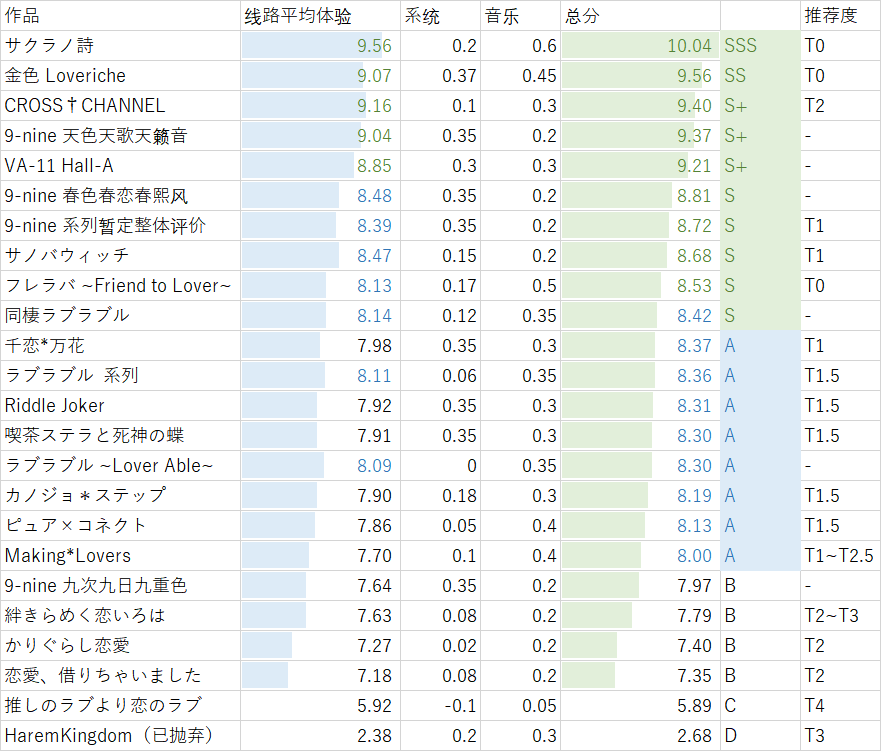
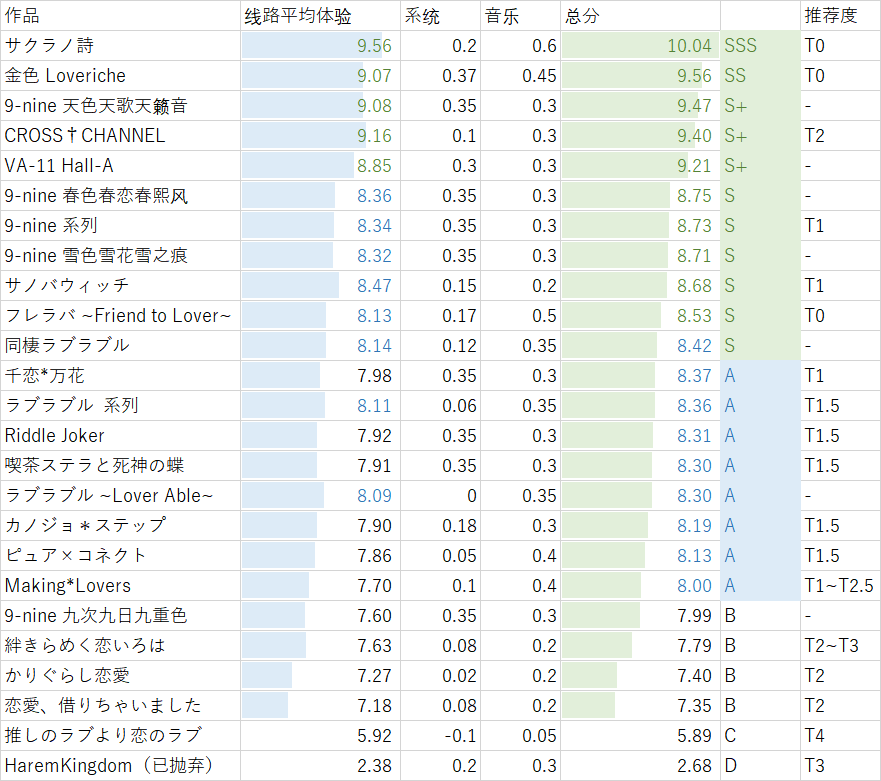
MoeImp 9nine-4

Changed region(s): [[0.0, 0.0, 1.0, 1.0], [0.2758, 0.6738, 0.3678, 0.8881], [0.9194, 0.0, 0.9807, 0.1838]]

diff --git a/impression/9nine.md b/impression/9nine.md
@@ -21,27 +21,27 @@ Palette 「9-nine」（2017-2020）
 
 | 9-nine | 线路分  |   作品分 | Rank |
 | :---------------: | ---: | :---------: | :--: |
-| 九次九日九重色 | 9.55 | 10.10/N7.97 |  B  |
-| 天色天歌天籁音 | 11.30 | 11.85/N9.37 |  S+  |
-| 春色春恋春熙风 | 10.60 | 11.15/N8.81 |  S  |
-| 雪色雪花雪之痕 | - | - |  -   |
-| 整体评分（暂定） | - | 11.03/N8.72 |  S  |
+| 九次九日九重色 | 9.50 | 10.15/N7.99 |  B  |
+| 天色天歌天籁音 | 11.35 | 12.00/N9.47 |  S+  |
+| 春色春恋春熙风 | 10.45 | 11.10/N8.75 |  S  |
+| 雪色雪花雪之痕 | 10.40 | 11.05/N8.71 |  S   |
+| 整体评分 | - | 11.08/N8.73 |  S  |
 
 ### 九次九日九重色
 
 （九條都）
 
-印象分 9.1→8.2/10 趣味 0.0/0.3 情感 0.3/0.5<br />
-人物刻画 0.3/0.5 剧情表现 0.1/0.5<br />
-人物（声音 + 作画）(0.3+0.4)/(0.3+0.4)<br />
-结尾埋了一个雷 -0.05<br />
-线路总计 9.55/12.5
+印象分 9.1→8.2/10 趣味 0.0/0.3 情感 0.3/0.5  
+人物刻画 0.3/0.5 剧情表现 0.1/0.5  
+人物（声音 + 作画）(0.25+0.4)/(0.3+0.4)  
+结尾埋了一个雷 -0.05  
+线路总计 9.5/12.5
 
-系统 存档方便 +0.05 场景动态 +0.1 <br />
-人物表情动态 +0.05 漫画场景 +0.05<br />
-整体「精致感」+0.1<br />
-音乐 +0.2<br />
-作品总计 10.10/N7.97 B
+系统 存档方便 +0.05 场景动态 +0.1   
+人物表情动态 +0.05 漫画场景 +0.05  
+整体「精致感」+0.1  
+音乐 +0.3  
+作品总计 10.15/N7.99 B
 
 系统方面，这可能是我用过的最好用的系统了，存档界面就在手边，基本功能也没有缺失，人物和场景甚至有些动态，比如一些表情的「冒汗」「kira」这样的效果。这个动态 CG 过于强大甚至使得我跳 hs 有了一种暴殄天物的罪恶感。
 
@@ -49,22 +49,22 @@ Palette 「9-nine」（2017-2020）
 
 不过在这个剧情和系统中，我还是蛮喜欢这个一周目强制 BE 的设定的。这个设定给了一种「我亲眼看到并且亲手阻止了这场悲剧发生」的感觉，并且莫名其妙地，我因为这个 BE 对喵都的好感增加了（可能是激发了保护欲吧）。二周目更是用实际对比告诉了玩家的行动的变化会带来什么样的不同，会怎样避免悲剧发生。
 
-虽然剧情比较拉跨，但是还好，这作在其他地方没有一点缩水。称得上豪华的声优阵容带来的强大的声音表演，精致的作画，在视听感受上是顶尖级别的水准，作为系列开头奠定的基础是非常优秀的。也正是声音 + 作画的 0.3+0.4 将本作提升至了接近 A+ 的水准。
+虽然剧情比较拉跨，但是还好，这作在其他地方没有一点缩水。称得上豪华的声优阵容带来的强大的声音表演，精致的作画，在视听感受上是顶尖级别的水准，作为系列开头奠定的基础是非常优秀的。也正是声音 + 作画的 0.3+0.4 将本作提升至了接近 A 的水准。
 
 ### [天色天歌天籁音](http://yoro.xyz/kawaiigirls/2020/03/12/9nine-sora.html)
 
 （新海天）
 
-印象分 9.6→9.2/10 趣味 0.1/0.3 情感 0.5/0.5<br />
-人物刻画 0.4/0.5 剧情表现 0.3/0.5<br />
-人物（声音 + 作画）(0.4+0.4)/(0.3+0.4)<br />
-线路总计 11.3/12.5
+印象分 9.6→9.2/10 趣味 0.25/0.3 情感 0.4/0.5  
+人物刻画 0.4/0.5 剧情表现 0.3/0.5  
+人物（声音 + 作画）(0.4+0.4)/(0.3+0.4)  
+线路总计 11.35/12.5
 
-系统 +0.35（同上）<br />
-音乐 +0.2<br />
-作品总计 11.85/N9.37 S+
+系统 +0.35（同上）  
+音乐 +0.3  
+作品总计 12.00/N9.47 S+
 
-单线作品就有这样的特点，线路好的话分数可以很高，因为没有其他线路拖后腿；线路烂的话分数可以很低，因为没有其他线路补救。<br />
+单线作品就有这样的特点，线路好的话分数可以很高，因为没有其他线路拖后腿；线路烂的话分数可以很低，因为没有其他线路补救。  
 放心，9-nine 系列最后还是要看一个总评分的。
 
 ~~好吧我承认就这样把 MoeImp-v2 第一个 SS 交了简直就是乱来，但是某种程度上这是能让我破例的存在。~~ 我又压分了！
@@ -83,16 +83,16 @@ Palette 「9-nine」（2017-2020）
 
 （香坂春风）
 
-印象分 9.4→8.8/10 趣味 0.1/0.3 情感 0.3/0.5<br />
-人物刻画 0.4/0.5 剧情表现 0.4/0.5<br />
-人物（声音 + 作画）(0.2+0.3)/(0.3+0.4)<br />
-虽说只是掺了一点的校园霸凌话题但是还是 +0.05<br />
-结尾的 meta 处理提升期待值 +0.05<br />
-线路总计 10.6/12.5
+印象分 9.4→8.8/10 趣味 0.1/0.3 情感 0.3/0.5  
+人物刻画 0.4/0.5 剧情表现 0.25/0.5  
+人物（声音 + 作画）(0.2+0.3)/(0.3+0.4)  
+虽说只是掺了一点的校园霸凌话题但是还是 +0.05  
+结尾的 meta 处理提升期待值 +0.05  
+线路总计 10.45/12.5
 
-系统 +0.35（同上）<br />
-音乐 +0.2<br />
-作品总计 11.15/N8.81 S
+系统 +0.35（同上）  
+音乐 +0.3  
+作品总计 11.10/N8.75 S
 
 自爆系学姐すき。
 
@@ -116,17 +116,51 @@ Palette 「9-nine」（2017-2020）
 
 （结城希亚）
 
-2020 年 4 月发售。
+印象分 9.3→8.6/10 趣味 0.15/0.3 情感 0.35/0.5  
+人物刻画 0.4/0.5 剧情表现 0.3/0.5  
+人物（声音 + 作画）(0.25+0.35)/(0.3+0.4)  
+线路总计 10.4/12.5
+
+系统 +0.35（同上）  
+音乐 +0.3  
+作品总计 11.05/N8.71 S
+
+前回书说到春春春结尾给了个 meta 设定，果不其然在这里对剧情的推动和发展发挥了巨大作用——不如说没作用的话就是扣分点了。但是这对玩家的记忆有着较高的要求，需要记住这是哪，从哪开始进行世界线修正。于是有了一个 Overload ~~Flowchart~~ ，但是与其说是类似于柚子社的流程图，更像是多选一的选项——毕竟本作没有实装前三作的剧情数据，也可以理解~~而且如果出整合版估计也会因为是春春春重大剧透而只能在春春春结束后解锁吧（？）~~。
+
+然后在剧情设计上，想要讲清楚怎么回事还不剧透是非常难的一件事，在这里我只能说不要看攻略，攻略本身也是一种剧透。这个故事架构提供的冲击力不止一点半点。
+
+但是这样的架构带来了一个重要的缺点：最初和后半的剧情过于碎片，都是在修补特异点（。而且后半结尾的剧情非常的……不能带脑子，意味不明。总感觉圆不回来了强行圆。
+
+~~以及最后真的不是后宫结局吗？？~~
+
+角色上的话这一作（当然是在这一作）形成了一个更加立体的角色形象，尤其是对比前三作形成了非常深刻印象的人物形象就更加明显，反差萌什么的最可爱了（。然后用这样的剧情把这个角色的过去、心结、成长的过程等等都能讲清楚，就我看来是比其他线路要高明的（当然天天天侧重于情感描写，那就是另一个故事了）。
+
+我认为像 9-nine 这种作品因为其剧情原因同一条线不能只刻画某一个女主角，而是需要同时刻画好一个群像，基本上每一个登场角色都有属于自己的个性和特质，而如何做到不让某一个或几个特定的角色影响到或者说遮蔽了其他角色的刻画则是这种作品最难的地方。这一作（也包括天天天和春春春）最大的优点就是做到了这一点。~~不过本作我感觉所有趣味性都是来自华哥的卖力演出，我有问题。~~
+
+题外话：实际上这作不好打分，因为怎么讲，自从推完春春春之后已经过去一个多月了，当时给前作打分的理由有很多实际上记不太清楚了，经常就是对着上面的前作评价来回忆到底发生了什么让我给出了这样的分数。再加上前作一直熟肉这作是生肉，理解力可能相对下降一点。  
+唉，一想到这作是华哥里界隐退作（应该是了），有点遗憾。
 
 ### 整体评价
 
-由于第四作尚未发售，本评分为前三作（前三条线）综合评分，之后会根据第四作进行修改。
-
-各线路加权总分 10.48<br />
-系统 +0.35（同上）<br />
-音乐 +0.2<br />
-作品总计 11.03/N8.72 S
+各线路加权总分 10.43  
+系统 +0.35（同上）  
+音乐 +0.3  
+作品总计 11.08/N8.73 S
 
 实际上我们都能看得出来，9-nine 系列的各个作品与其说是独立作，不如说是一作的不同分支线路。分割商法带来的一个缺点是作品发售时间越靠后剧情越深入并且剧情描绘越能用上力，这实际上发售早的线路十分吃亏，综上所述这句话我说过无数次了但是还要再说一次：
 
 救救喵都————————————
+
+---
+
+从这里开始是剧透，可看可不看。
+
+仔细想的话 9-nine 尤其雪雪雪的故事是经不起推敲的。比如说 Ilith 从所有枝上消失了，那么原来 Ilith 干涉的线还存在吗？其他线的主角是否知道 Ilith 消失的事情吗？如此种种，经不起推敲就是了。我觉得很大程度上这条线就是强行圆回来这样的感觉。
+
+所以说这作不能带太多脑子推。
+
+---
+
+但是上面那些都是暂时的——**9-nine 这个系列故事还没完结。**
+
+九条都 TE **是存在的**。
